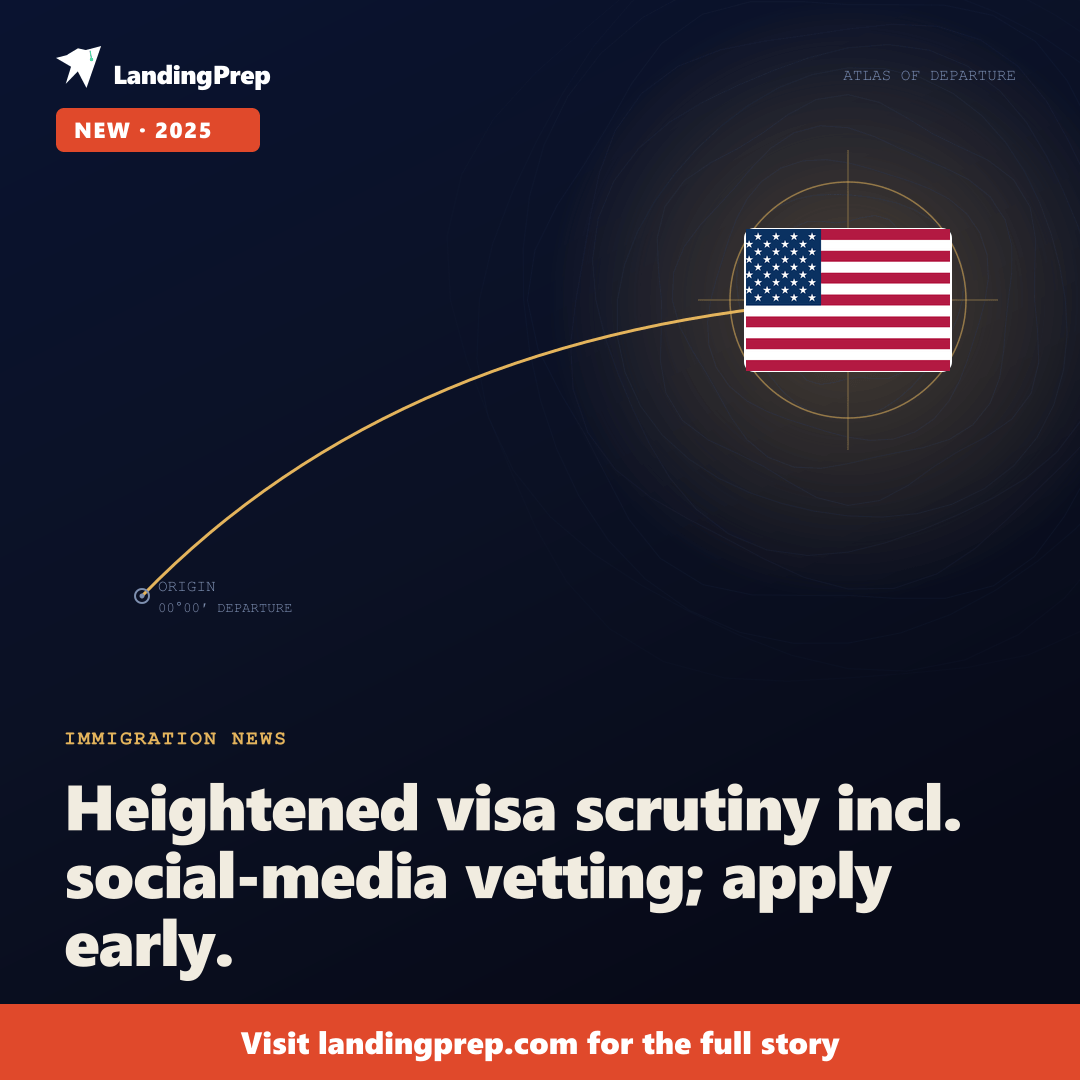
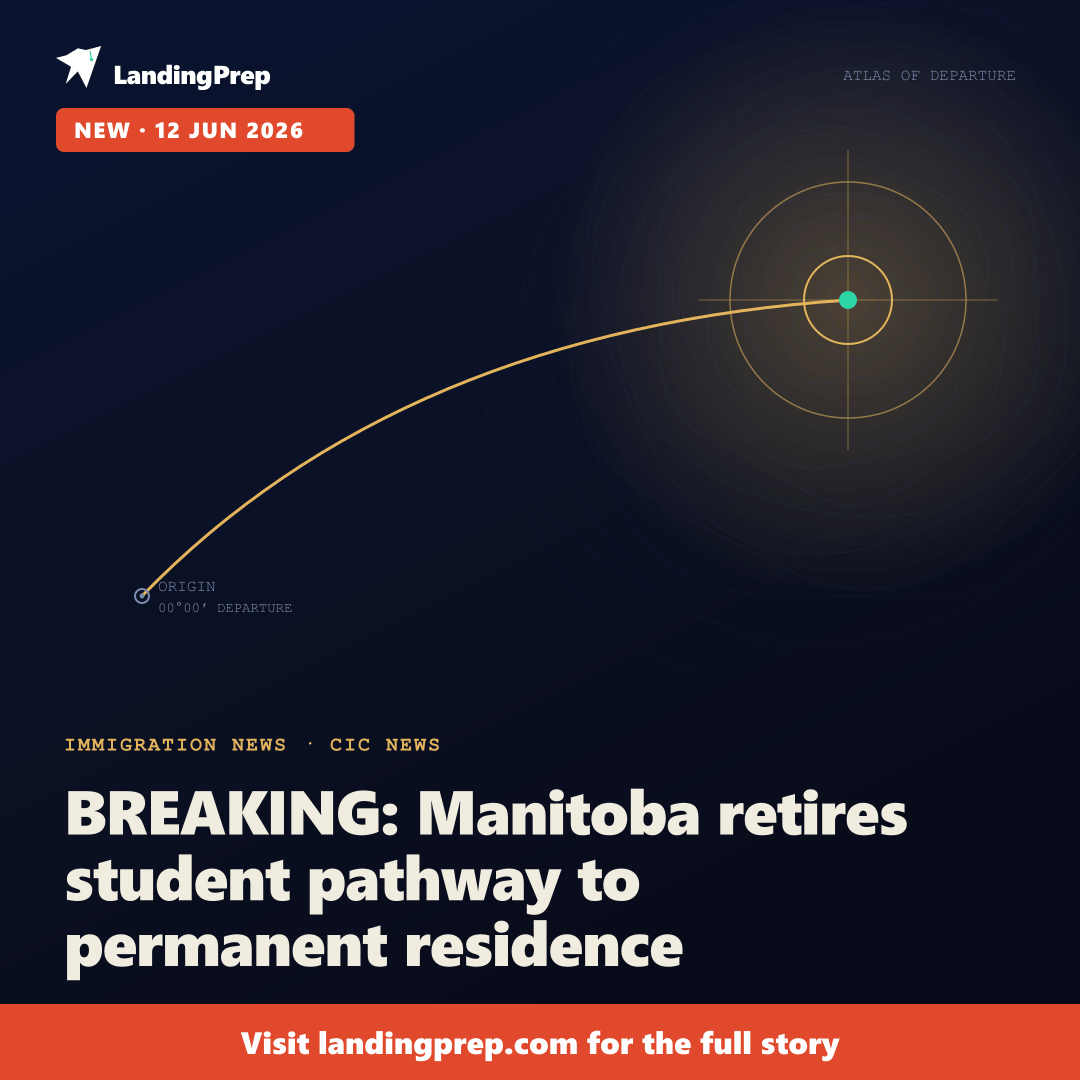
Fix: headline overflow (tighter wrap width) + filter sports/entertainment from news (FIFA/cricket/movies no longer slip in as immigration news)

Changed region(s): [[0.0611, 0.6722, 0.8861, 0.9167], [0.6722, 0.2139, 0.8861, 0.3667], [0.1528, 0.0917, 0.3361, 0.1528]]

diff --git a/scripts/ig-poster.js b/scripts/ig-poster.js
@@ -237,7 +237,7 @@ const RSS_Q = {
   immig: ["international student visa news", "study abroad immigration policy", "Express Entry Canada draw", "UK Graduate Route student visa", "Australia student visa changes", "post study work visa", "student visa rule change"],
   edu: ["study abroad scholarship", "international student scholarship 2026", "study abroad university admission", "overseas education students", "study abroad intake 2026", "international students enrollment"],
 };
-const JUNK_RE = /school assembly|news headlines|top \d+ (news|stories|headlines)|round-?up|live updates?|current affairs|gk (questions?|quiz)|\bquiz\b|horoscope|cricket|\bipl\b|box office|recipe/i;
+const JUNK_RE = /school assembly|news headlines|top \d+ (news|stories|headlines)|round-?up|recap|live updates?|current affairs|gk (questions?|quiz)|\bquiz\b|horoscope|recipe|fifa|world cup|football|soccer|cricket|\bipl\b|olympic|tournament|\bmatch\b|\bgoal[s]?\b|striker|premier league|la liga|box office|\bmovie\b|\bfilm\b|actor|actress|celebrity|trailer|\bsong\b|\balbum\b|web series|box-office/i;
 const REL = {
   immig: /visa|immigration|permit|\bpr\b|residen|migrant|citizenship|deport|express entry|graduate route|work right|sponsor/i,
   edu: /student|study|universit|colleg|scholarship|admission|abroad|tuition|campus|intake|enrol|fellowship|\bms\b|graduate/i,
@@ -431,8 +431,8 @@ function bulletinInner(c) {
   s += `<rect x="56" y="110" rx="9" width="${42 + ntag.length * 13.5}" height="46" fill="${red}"/><text x="74" y="141" font-family="${FONT}" font-size="23" font-weight="900" letter-spacing="1.4" fill="#fff">${esc(ntag)}</text>`;
   if (c.flagCountry) s += `<rect x="620" y="116" rx="18" width="424" height="292" fill="#ffffff"/><rect x="620" y="116" rx="18" width="424" height="292" fill="none" stroke="rgba(0,0,0,0.06)" stroke-width="2"/>`;
   const big = (c.headline || "").length;
-  const size = big > 96 ? 58 : big > 56 ? 70 : 84;
-  const maxChars = Math.round(1040 / (size * 0.495));
+  const size = big > 96 ? 56 : big > 56 ? 66 : 80;
+  const maxChars = Math.round(1000 / (size * 0.57));
   const lines = wrapRich(c.headline, [c.flagCountry || ""], maxChars).slice(0, 4);
   const lh = size * 1.05, lastB = 980, firstB = lastB - (lines.length - 1) * lh;
   lines.forEach((ln, i) => { const spans = ln.map((w) => `<tspan${w.hi ? ` fill="${gold}"` : ""}>${esc(w.t)} </tspan>`).join("");
@@ -575,8 +575,8 @@ function cartoRings(cx, cy) {
 }
 function cartoNewsSvg(c) {
   const DX = 848, DY = 300, OX = 142, OY = 596, red = c.accent || "#E0492B";
-  const big = (c.headline || "").length, size = big > 96 ? 54 : big > 56 ? 64 : 76;
-  const lines = wrapRich(c.headline, [c.flagCountry || ""], Math.round(1040 / (size * 0.5))).slice(0, 4);
+  const big = (c.headline || "").length, size = big > 96 ? 52 : big > 56 ? 62 : 74;
+  const lines = wrapRich(c.headline, [c.flagCountry || ""], Math.round(1000 / (size * 0.57))).slice(0, 4);
   const lh = size * 1.06, lastB = 966, firstB = lastB - (lines.length - 1) * lh;
   let head = "";
   lines.forEach((ln, i) => { const sp = ln.map((w) => `<tspan${w.hi ? ` fill="${C_GOLD}"` : ""}>${esc(w.t)} </tspan>`).join("");
@@ -714,8 +714,8 @@ function slideCTASvg(s) {
 // cartographic carousel cover — flight path rising to the country flag, title at the base
 function cartoCoverSvg(s) {
   const DX = 848, DY = 300, OX = 142, OY = 596, a = s.accent || "#2563EB";
-  const size = (s.title || "").length > 44 ? 64 : 78;
-  const lines = wrapRich(s.title, [], Math.round(1040 / (size * 0.5))).slice(0, 3);
+  const size = (s.title || "").length > 44 ? 62 : 76;
+  const lines = wrapRich(s.title, [], Math.round(1000 / (size * 0.57))).slice(0, 3);
   const lh = size * 1.05, lastB = 906, firstB = lastB - (lines.length - 1) * lh;
   let head = "";
   lines.forEach((ln, i) => { head += `<text x="64" y="${firstB + i * lh}" xml:space="preserve" font-family="${FONT}" font-size="${size}" font-weight="900" fill="${C_CREAM}" letter-spacing="-1.5">${ln.map((w) => `<tspan>${esc(w.t)} </tspan>`).join("")}</text>`; });
